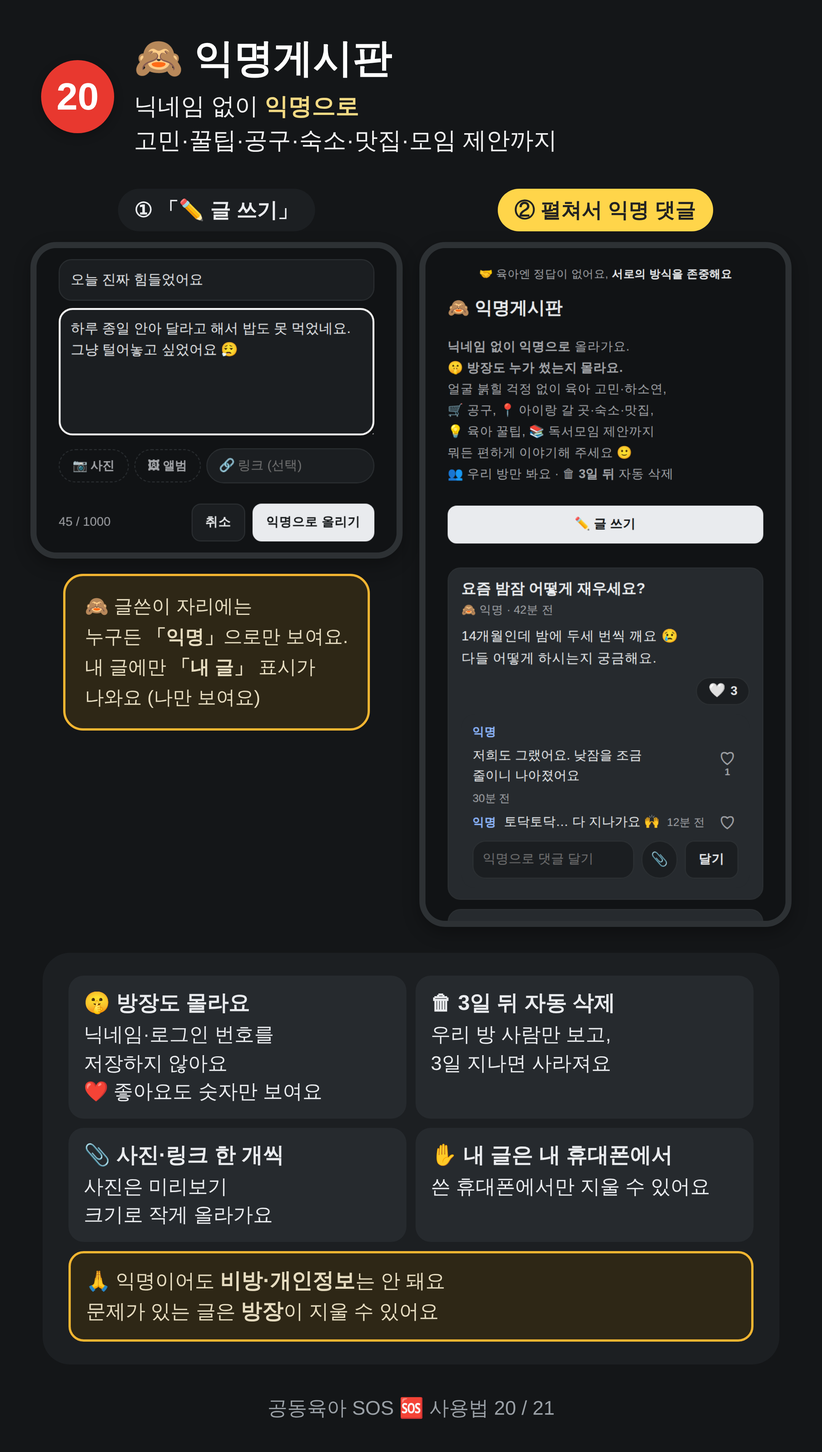
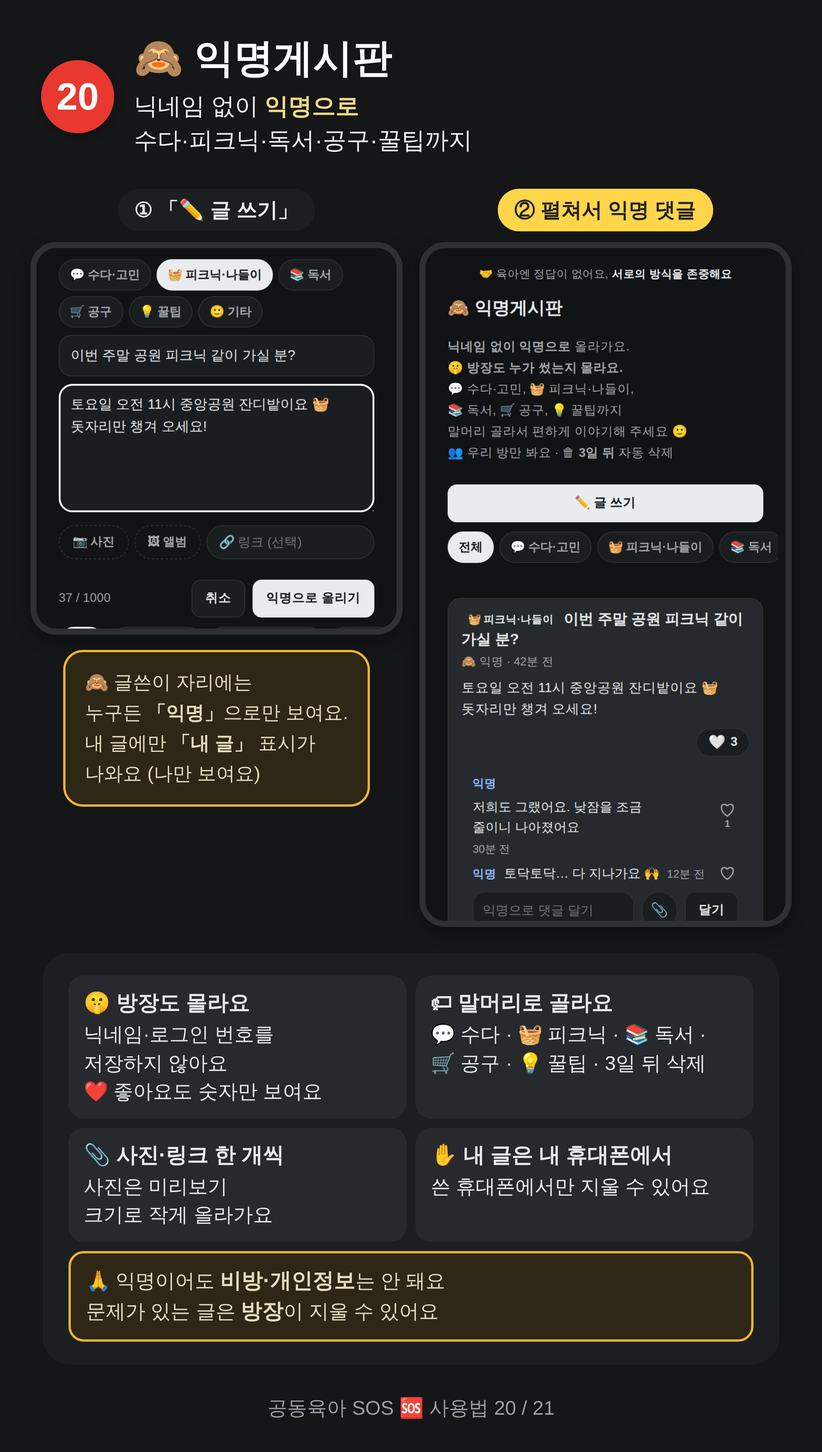
익명게시판 말머리를 '하고 싶은 것' 위주로 다시 (수다·피크닉·독서·공구·꿀팁·기타, 규칙 변경 없음), 전광판 글귀 2개 교체, 사용법 20 갱신
Claude-Session: https://claude.ai/code/session_01EFizHcDdWswyQN5TmKwWHe

diff --git a/sos/safety.html b/sos/safety.html
@@ -8,14 +8,14 @@
 <link rel="preconnect" href="https://fonts.gstatic.com" crossorigin>
 <link rel="stylesheet" href="https://fonts.googleapis.com/css2?family=IBM+Plex+Sans+KR:wght@400;500;600;700&display=swap">
 <link rel="icon" href="assets/icon.svg" type="image/svg+xml">
-<link rel="manifest" href="manifest.webmanifest?v=202610150553">
+<link rel="manifest" href="manifest.webmanifest?v=202610150609">
 <meta name="theme-color" content="#2a9095">
 <link rel="apple-touch-icon" href="assets/icon-sos-180.png">
 <meta name="apple-mobile-web-app-capable" content="yes">
 <meta name="mobile-web-app-capable" content="yes">
 <meta name="apple-mobile-web-app-title" content="공동육아 SOS">
-<link rel="stylesheet" href="assets/common.css?v=202610150553">
-<script src="assets/gate.js?v=202610150553"></script>
+<link rel="stylesheet" href="assets/common.css?v=202610150609">
+<script src="assets/gate.js?v=202610150609"></script>
 </head>
 <body>
 <div class="wrap single">
@@ -100,7 +100,7 @@
         <tr><td>🙌 모임</td><td>날짜·시간, 장소/놀이 글, <b>주최자 닉네임</b>(연 사람은 처음부터 '참석'으로 표시돼요), 참석·불참한 사람의 닉네임, 댓글 글과 닉네임, 붙인 경우 미리보기 크기로 줄인 사진 한 장(약 20KB)과 링크 주소, ❤ 좋아요 누른 사람의 익명 로그인 번호(uid)와 닉네임(누가 눌렀는지 보여요, 댓글 좋아요도 같아요)</td></tr>
         <tr><td>🍚 식단 사진</td><td>작게 줄인 사진(한 장 약 20KB), <b>올린 사람의 닉네임</b>, 끼니·날짜, 적은 경우 메모·아이 개월수, 익명 로그인 번호(uid), ❤ 좋아요 누른 사람의 익명 로그인 번호와 닉네임(누가 눌렀는지 보여요). 올린 날부터 3일 뒤 지워져요.</td></tr>
         <tr><td>💬 사진·모임 댓글</td><td>댓글 글, <b>쓴 사람의 닉네임</b>, 시간, 답글이면 받는 사람의 로그인 번호(알림을 보내는 데만 써요). 사진·모임과 함께 지워져요.</td></tr>
-        <tr><td>🙈 익명게시판</td><td>제목·내용·댓글과 올린 시간, 붙인 경우 미리보기 크기로 줄인 사진 한 장(약 20KB)과 링크 주소, '내 글' 확인용 비밀값의 지문(kh), ❤ 좋아요(글·댓글)는 누가 눌렀는지 알 수 없게 글마다 다른 지문만. <b>닉네임·로그인 번호는 저장하지 않아서 방장도 누가 썼는지, 누가 좋아요를 눌렀는지 몰라요.</b> 3일 뒤 지워져요.</td></tr>
+        <tr><td>🙈 익명게시판</td><td>말머리(수다·피크닉·독서·공구·꿀팁·기타), 제목·내용·댓글과 올린 시간, 붙인 경우 미리보기 크기로 줄인 사진 한 장(약 20KB)과 링크 주소, '내 글' 확인용 비밀값의 지문(kh), ❤ 좋아요(글·댓글)는 누가 눌렀는지 알 수 없게 글마다 다른 지문만. <b>닉네임·로그인 번호는 저장하지 않아서 방장도 누가 썼는지, 누가 좋아요를 눌렀는지 몰라요.</b> 3일 뒤 지워져요.</td></tr>
         <tr><td>📈 운영 통계</td><td>방 사람들은 볼 수 없고 <b>운영자만</b> 봐요. ① 날짜별 방문자 수·조회수 숫자 두 개 (누가 왔는지는 없어요) ② 방마다 '들어온 시각' 기록 (닉네임 없이 시각만. 누적 가입자 수를 세는 데 써요)</td></tr>
       </table>
       <p class="hint">모임 방마다 따로 저장돼서, <b>방 비밀번호를 아는 사람만</b> 그 방의 SOS·모임·댓글·식단·익명게시판을 볼 수 있어요. 다른 방 사람은 볼 수 없어요.<br>통신은 모두 암호화(HTTPS)돼요. 서버는 Google Firebase를 써요.</p>
@@ -128,7 +128,7 @@
         <li><b>멤버</b>: 방장은 '👥 멤버'에서 내보낼 수 있어요. 내보내진 휴대폰은 그 방을 더 이상 볼 수 없어요.</li>
         <li><b>모임 댓글</b>: 쓴 휴대폰에서 댓글 옆 '수정'·'삭제'를 누르면 돼요.</li>
         <li><b>🍚 식단 사진</b>: 우리 방 사람만 볼 수 있어요. 휴대폰에서 작게 줄여(한 장 약 20KB) 올리고, 올린 날부터 3일 뒤 서버에서 자동으로 지워져요. 올린 사람과 방장만 '✕'로 지울 수 있어요. 아이 얼굴·집 안이 나오지 않게 음식만 찍어 주세요.</li>
-        <li><b>🙈 익명게시판</b>: 제목·내용·댓글, 올린 시간, 붙인 사진·링크만 저장하고, 닉네임·로그인 번호는 저장하지 않아요. 내 글인지는 이 휴대폰에만 있는 비밀값으로 확인해요. 우리 방 사람만 볼 수 있고 3일 뒤 자동으로 지워져요. '내 정보 모두 지우기'를 누르면 이 휴대폰에서 쓴 글·댓글도 지워져요. 모임·식단에 누른 ❤ 좋아요도 함께 빠지고, 익명게시판 좋아요는 누가 눌렀는지 알 수 없어서 글과 함께 3일 안에 사라져요.</li>
+        <li><b>🙈 익명게시판</b>: 말머리와 제목·내용·댓글, 올린 시간, 붙인 사진·링크만 저장하고, 닉네임·로그인 번호는 저장하지 않아요. 내 글인지는 이 휴대폰에만 있는 비밀값으로 확인해요. 우리 방 사람만 볼 수 있고 3일 뒤 자동으로 지워져요. '내 정보 모두 지우기'를 누르면 이 휴대폰에서 쓴 글·댓글도 지워져요. 모임·식단에 누른 ❤ 좋아요도 함께 빠지고, 익명게시판 좋아요는 누가 눌렀는지 알 수 없어서 글과 함께 3일 안에 사라져요.</li>
         <li><b>💬 사진 댓글·답글</b>: 닉네임·글·시간이 저장되고, 사진과 함께 지워져요. 쓴 사람·사진 올린 사람·방장이 지울 수 있어요. 댓글이나 답글이 달리면 받는 사람에게만 알림이 가요(알림 채널 이름은 방 열쇠와 로그인 번호로 만든 암호값이에요).</li>
         <li><b>알림</b>: 알림을 켜면 이 휴대폰의 알림 주소(토큰)가 Google 알림 서버(Firebase Cloud Messaging)에 우리 방 채널로 등록돼요. 잠금화면에 보일 수 있어서 새 모임·SOS 알림에는 방 이름과 날짜·시간만 넣어요. 댓글·답글 알림은 받는 사람 한 명에게만 가고 쓴 사람 닉네임과 글 앞부분(60자까지)이 보여요, 홈의 '알림 끄기'로 언제든 빠질 수 있어요.</li>
         <li class="ttl-only"><b>자동 삭제</b>: 모임·댓글·SOS 요청는 그 날짜가 지나고 3일 뒤 서버에서 자동으로 지워져요. (방 사람이 앱을 열 때 정리돼요. 아무도 열지 않으면 조금 늦어질 수 있어요)</li>
@@ -150,8 +150,8 @@
 <script src="https://www.gstatic.com/firebasejs/10.12.0/firebase-auth-compat.js"></script>
 <script src="https://www.gstatic.com/firebasejs/10.12.0/firebase-firestore-compat.js"></script>
 <script src="https://www.gstatic.com/firebasejs/10.12.0/firebase-messaging-compat.js"></script>
-<script src="assets/common.js?v=202610150553"></script>
-<script src="assets/push.js?v=202610150553"></script>
+<script src="assets/common.js?v=202610150609"></script>
+<script src="assets/push.js?v=202610150609"></script>
 <script>
 document.getElementById('deleteMe').addEventListener('click', async e => {
   const owning = sosRooms().filter(r => r.owner).map(r => r.name);   // 내가 방장인 방이 있으면 먼저 알려 줘요

diff --git a/sos/assets/idea.js b/sos/assets/idea.js
@@ -6,7 +6,7 @@ const $i = s => document.querySelector(s);
 const IDEA_DAYS = 3, IDEA_KEYS = 'sosIdeaKeys';   // v16: 3일 뒤 자동 삭제
 const idea = {lkey: {},  col: null, items: [], open: new Set(), cmts: {}, subs: {}, drafts: {}, cat: 'talk', filter: '' };
 // 말머리 (서버 규칙 v16의 목록과 같아야 해요)
-const IDEA_CATS = [['talk', '💬 고민·하소연'], ['idea', '💡 꿀팁·제안'], ['buy', '🛒 공구'], ['place', '📍 갈 곳·숙소·맛집'], ['club', '📚 모임 제안'], ['etc', '🙂 기타']];
+const IDEA_CATS = [['talk', '💬 수다·고민'], ['place', '🧺 피크닉·나들이'], ['club', '📚 독서'], ['buy', '🛒 공구'], ['idea', '💡 꿀팁'], ['etc', '🙂 기타']];   // 코드는 규칙 v16 그대로, 이름만 바꿨어요
 const catName = c => (IDEA_CATS.find(x => x[0] === c) || ['', ''])[1];
 
 const ideaKeys = () => { try{ return JSON.parse(localStorage.getItem(IDEA_KEYS) || '{}'); }catch(e){ return {}; } };
@@ -26,13 +26,15 @@ function renderIdeas(){
   const fo = document.activeElement && document.activeElement.closest && document.activeElement.closest('[data-idea]');   // 쓰는 중인 댓글은 지켜요
   const draft = fo ? {id: fo.dataset.idea, v: fo.querySelector('input').value} : null;
   ul.querySelectorAll('[data-idea] input').forEach(i => { if(i.value) idea.drafts[i.closest('[data-idea]').dataset.idea] = i.value; });
-  const list = idea.items.filter(x => !x.deleted);   // 말머리 구분 없이 전부 (v19: 말머리 칸은 숨겨요)
-  if(!list.length){ ul.innerHTML = `<li class="hint idea-empty">아직 글이 없어요. 첫 이야기를 편하게 남겨 보세요 🙂</li>`; return; }
+  const list = idea.items.filter(x => !x.deleted && (!idea.filter || (x.c || 'talk') === idea.filter));
+  const fr = $i('#ideaFilter'); if(fr && !fr.childElementCount) fr.innerHTML = [['', '전체'], ...IDEA_CATS].map(([k, n]) => `<button type="button" data-filter="${k}" aria-pressed="${k === idea.filter}">${n}</button>`).join('');
+  if(fr) fr.querySelectorAll('button').forEach(b => b.setAttribute('aria-pressed', String(b.dataset.filter === idea.filter)));
+  if(!list.length){ ul.innerHTML = `<li class="hint idea-empty">${idea.filter ? '이 말머리 글이 아직 없어요.' : '아직 글이 없어요. 첫 이야기를 편하게 남겨 보세요 🙂'}</li>`; return; }
   ul.innerHTML = '';
   list.forEach(x => {
     const li = document.createElement('li'); li.className = 'idea-card'; li.dataset.id = x.id;
     const mine = !!keys[ipath(x.id)], opened = idea.open.has(x.id);
-    li.innerHTML = `<button type="button" class="idea-head" data-toggle="${x.id}" aria-expanded="${opened}"><b class="idea-t"></b><span class="idea-m">🙈 익명 · ${ago(x.createdAt)}${mine ? ' · 내 글' : ''}</span></button>
+    li.innerHTML = `<button type="button" class="idea-head" data-toggle="${x.id}" aria-expanded="${opened}"><b class="idea-t"><span class="idea-cat">${catName(x.c || 'talk')}</span></b><span class="idea-m">🙈 익명 · ${ago(x.createdAt)}${mine ? ' · 내 글' : ''}</span></button>
       <p class="idea-b"></p>`;
     li.querySelector('.idea-t').appendChild(document.createTextNode(x.t));
     const b = li.querySelector('.idea-b'); b.textContent = x.b; if(!opened) b.classList.add('clip');
@@ -102,6 +104,11 @@ async function removeDoc(ref, path){
   $i('#ideaCancel').addEventListener('click', () => { form.hidden = true; $i('#ideaOpen').hidden = false; });
   body.addEventListener('input', () => { $i('#ideaCount').textContent = `${body.value.length} / 1000`; });
   if(typeof attachUI === 'function') idea.attach = attachUI(form, {before: $i('#ideaAttach')});
+  // 🏷 말머리 고르기 (글쓰기) · 말머리로 보기 (목록)
+  const cats = $i('#ideaCats'); cats.innerHTML = IDEA_CATS.map(([k, n]) => `<button type="button" data-cat="${k}" aria-pressed="${k === idea.cat}">${n}</button>`).join('');
+  cats.addEventListener('click', e => { const b = e.target.closest('[data-cat]'); if(!b) return; idea.cat = b.dataset.cat; cats.querySelectorAll('button').forEach(x => x.setAttribute('aria-pressed', String(x === b)));
+    title.placeholder = {talk: '제목 (예: 요즘 밤잠 어떻게 재우세요?)', place: '제목 (예: 이번 주말 공원 피크닉 같이 가실 분?)', club: '제목 (예: 그림책 같이 읽을 분 모여요)', buy: '제목 (예: 기저귀 공구 같이 하실 분?)', idea: '제목 (예: 밤잠 꿀팁 하나 공유해요)', etc: '제목'}[idea.cat] || '제목'; });
+  $i('#ideaFilter').addEventListener('click', e => { const b = e.target.closest('[data-filter]'); if(!b) return; idea.filter = b.dataset.filter; renderIdeas(); });
   sosReady().then(ok => {
     if(!ok){ $i('#ideaList').innerHTML = '<li class="hint">익명게시판을 불러오지 못했어요. 잠시 뒤 다시 열어 주세요.</li>'; return; }
     idea.col = roomRef().collection('ideas');
@@ -121,7 +128,7 @@ async function removeDoc(ref, path){
     try{
       const ref = idea.col.doc(), k = secret();
       setIdeaKey(ipath(ref.id), k);
-      await ref.set({t, b, ...at, kh: await sha(k), createdAt: firebase.firestore.FieldValue.serverTimestamp(),
+      await ref.set({t, b, c: idea.cat, ...at, kh: await sha(k), createdAt: firebase.firestore.FieldValue.serverTimestamp(),
         expireAt: firebase.firestore.Timestamp.fromMillis(Date.now() + IDEA_DAYS * 864e5)});
       title.value = ''; body.value = ''; $i('#ideaCount').textContent = '0 / 1000'; if(idea.attach) idea.attach.clear();
       form.hidden = true; $i('#ideaOpen').hidden = false;

diff --git a/sos/idea.html b/sos/idea.html
@@ -8,14 +8,14 @@
 <link rel="preconnect" href="https://fonts.gstatic.com" crossorigin>
 <link rel="stylesheet" href="https://fonts.googleapis.com/css2?family=IBM+Plex+Sans+KR:wght@400;500;600;700&display=swap">
 <link rel="icon" href="assets/icon.svg" type="image/svg+xml">
-<link rel="manifest" href="manifest.webmanifest?v=202610150553">
+<link rel="manifest" href="manifest.webmanifest?v=202610150609">
 <meta name="theme-color" content="#2a9095">
 <link rel="apple-touch-icon" href="assets/icon-sos-180.png">
 <meta name="apple-mobile-web-app-capable" content="yes">
 <meta name="mobile-web-app-capable" content="yes">
 <meta name="apple-mobile-web-app-title" content="공동육아 SOS">
-<link rel="stylesheet" href="assets/common.css?v=202610150553">
-<script src="assets/gate.js?v=202610150553"></script>
+<link rel="stylesheet" href="assets/common.css?v=202610150609">
+<script src="assets/gate.js?v=202610150609"></script>
 </head>
 <body>
 <div class="wrap single">
@@ -23,14 +23,16 @@
   <main>
     <section class="sec idea-sec">
       <h2>🙈 익명게시판</h2>
-      <p class="hint idea-note"><b>닉네임 없이 익명으로</b> 올라가요. <span class="nw">🤫 <b>방장도 누가 썼는지 몰라요.</b></span><br><span class="nw">얼굴 붉힐 걱정 없이</span> <span class="nw">육아 고민·하소연,</span> <span class="nw">🛒 공구, 📍 아이랑 갈 곳·숙소·맛집,</span> <span class="nw">💡 육아 꿀팁, 📚 독서모임 제안까지</span> <span class="nw">뭐든 편하게 이야기해 주세요 🙂</span><br><span class="nw">👥 우리 방만 봐요</span> · <span class="nw">🗑 <b>3일 뒤</b> 자동 삭제</span></p>
+      <p class="hint idea-note"><b>닉네임 없이 익명으로</b> 올라가요. <span class="nw">🤫 <b>방장도 누가 썼는지 몰라요.</b></span><br><span class="nw">💬 수다·고민, 🧺 피크닉·나들이,</span> <span class="nw">📚 독서, 🛒 공구, 💡 꿀팁까지</span><br><span class="nw">말머리 골라서 편하게 이야기해 주세요 🙂</span><br><span class="nw">👥 우리 방만 봐요 · 🗑 <b>3일 뒤</b> 자동 삭제</span></p>
       <button type="button" class="btn primary block" id="ideaOpen">✏ 글 쓰기</button>
       <form class="idea-form" id="ideaForm" hidden>
+        <div class="idea-cats" id="ideaCats" role="group" aria-label="말머리"></div>
         <input type="text" id="ideaTitle" maxlength="40" placeholder="제목 (예: 요즘 밤잠 어떻게 재우세요?)" aria-label="제목">
         <textarea id="ideaBody" maxlength="1000" rows="5" placeholder="고민·하소연·제안, 뭐든 자유롭게 적어 주세요. 이름·연락처 같은 개인정보는 빼 주세요." aria-label="내용"></textarea>
         <div id="ideaAttach"></div>
         <div class="idea-row"><span class="hint" id="ideaCount">0 / 1000</span><button type="button" class="btn" id="ideaCancel">취소</button><button type="submit" class="btn primary" id="ideaSend">익명으로 올리기</button></div>
       </form>
+      <div class="idea-cats idea-filter" id="ideaFilter" role="group" aria-label="말머리로 보기"></div>
       <ul class="idea-list" id="ideaList"><li class="hint">불러오는 중…</li></ul>
     </section>
     <p class="tiny-note">🙈 쓴 사람이 누구인지 서버에도 남지 않아요.<br><span class="nw">(닉네임·로그인 번호 저장 안 함)</span><br>내 글은 <b>쓴 휴대폰</b>에서만 지울 수 있어요.<br>비방·개인정보가 담긴 글은 <b>방장</b>이 지울 수 있어요.</p>
@@ -41,8 +43,8 @@
 <script src="https://www.gstatic.com/firebasejs/10.12.0/firebase-auth-compat.js"></script>
 <script src="https://www.gstatic.com/firebasejs/10.12.0/firebase-firestore-compat.js"></script>
 <script src="https://www.gstatic.com/firebasejs/10.12.0/firebase-messaging-compat.js"></script>
-<script src="assets/common.js?v=202610150553"></script>
-<script src="assets/push.js?v=202610150553"></script>
-<script src="assets/idea.js?v=202610150553"></script>
+<script src="assets/common.js?v=202610150609"></script>
+<script src="assets/push.js?v=202610150609"></script>
+<script src="assets/idea.js?v=202610150609"></script>
 </body>
 </html>

diff --git a/sos/terms.html b/sos/terms.html
@@ -8,14 +8,14 @@
 <link rel="preconnect" href="https://fonts.gstatic.com" crossorigin>
 <link rel="stylesheet" href="https://fonts.googleapis.com/css2?family=IBM+Plex+Sans+KR:wght@400;500;600;700&display=swap">
 <link rel="icon" href="assets/icon.svg" type="image/svg+xml">
-<link rel="manifest" href="manifest.webmanifest?v=202610150553">
+<link rel="manifest" href="manifest.webmanifest?v=202610150609">
 <meta name="theme-color" content="#2a9095">
 <link rel="apple-touch-icon" href="assets/icon-sos-180.png">
 <meta name="apple-mobile-web-app-capable" content="yes">
 <meta name="mobile-web-app-capable" content="yes">
 <meta name="apple-mobile-web-app-title" content="공동육아 SOS">
-<link rel="stylesheet" href="assets/common.css?v=202610150553">
-<script src="assets/gate.js?v=202610150553"></script>
+<link rel="stylesheet" href="assets/common.css?v=202610150609">
+<script src="assets/gate.js?v=202610150609"></script>
 </head>
 <body>
 <div class="wrap single">
@@ -90,7 +90,7 @@
         <li>비밀번호는 저장하지 않아요.<br><b>우리 방 사람만</b> 기록을 볼 수 있어요.</li>
         <li>SOS·모임·댓글은 날짜가 지나고 <b>3일 뒤 자동으로 지워져요.</b></li>
         <li>🍚 식단 사진은 <b>우리 방 사람만</b> 보고, 올린 날부터 <b>3일 뒤 자동으로 지워져요.</b><br>지우기는 올린 사람과 방장만 할 수 있어요.<br>사진에 단 댓글·답글도 사진과 함께 지워져요.</li>
-        <li>🙈 익명게시판에는 고민·하소연뿐 아니라 <b>육아 꿀팁, 공구, 아이랑 가기 좋은 곳·숙소·맛집 추천, 독서모임 같은 모임 제안</b>도 올릴 수 있어요. 말머리를 골라 올리면 돼요. 다만 돈이 오가는 공구는 <b>방 사람들끼리 자율로</b> 하는 것이고, 운영자는 거래에 책임지지 않아요. 외부 판매·홍보 글은 안 돼요.</li>
+        <li>🙈 익명게시판에는 말머리(💬 수다·고민, 🧺 피크닉·나들이, 📚 독서, 🛒 공구, 💡 꿀팁, 🙂 기타)를 골라 올려요. 고민·하소연뿐 아니라 <b>육아 꿀팁, 공구, 아이랑 가기 좋은 곳·숙소·맛집 추천, 독서모임 같은 모임 제안</b>도 올릴 수 있어요. 말머리를 골라 올리면 돼요. 다만 돈이 오가는 공구는 <b>방 사람들끼리 자율로</b> 하는 것이고, 운영자는 거래에 책임지지 않아요. 외부 판매·홍보 글은 안 돼요.</li>
         <li>📎 모임 글과 익명게시판 글, 그리고 모든 댓글에는 <b>사진 한 장(미리보기 크기로 아주 작게 줄인 것, 약 20KB)과 링크 하나</b>를 붙일 수 있어요. 댓글은 글 없이 사진만 올려도 돼요. 링크는 https:// 주소만 되고 새 창으로 열려요. 광고·낚시 링크가 담긴 글은 방장이 지울 수 있어요.</li>
         <li>🙈 익명게시판: 제목·내용·댓글에 <b>닉네임과 로그인 번호를 저장하지 않아요.</b> 우리 방 사람만 보고, <b>3일 뒤 자동으로 지워져요.</b> 내 글은 쓴 휴대폰에서만, 문제 글은 방장이 지울 수 있어요. 휴대폰을 바꾸면 예전 글은 직접 지울 수 없어요.</li>
         <li>💬 댓글·답글 알림: 내 식단 사진에 댓글이 달리거나 내 댓글에 답글이 달리면 <b>나에게만</b>, 모임 댓글은 그 모임 알림을 받는 사람에게 가요. (알림을 켠 휴대폰만, 알림에는 방 이름·닉네임·글 앞부분이 보여요)</li>
@@ -119,6 +119,6 @@
 <script src="https://www.gstatic.com/firebasejs/10.12.0/firebase-app-compat.js"></script>
 <script src="https://www.gstatic.com/firebasejs/10.12.0/firebase-auth-compat.js"></script>
 <script src="https://www.gstatic.com/firebasejs/10.12.0/firebase-firestore-compat.js"></script>
-<script src="assets/common.js?v=202610150553"></script>
+<script src="assets/common.js?v=202610150609"></script>
 </body>
 </html>

diff --git a/sos/index.html b/sos/index.html
@@ -9,14 +9,14 @@
 <link rel="preconnect" href="https://fonts.gstatic.com" crossorigin>
 <link rel="stylesheet" href="https://fonts.googleapis.com/css2?family=IBM+Plex+Sans+KR:wght@400;500;600;700&display=swap">
 <link rel="icon" href="assets/icon.svg" type="image/svg+xml">
-<link rel="manifest" href="manifest.webmanifest?v=202610150553">
+<link rel="manifest" href="manifest.webmanifest?v=202610150609">
 <meta name="theme-color" content="#2a9095">
 <link rel="apple-touch-icon" href="assets/icon-sos-180.png">
 <meta name="apple-mobile-web-app-capable" content="yes">
 <meta name="mobile-web-app-capable" content="yes">
 <meta name="apple-mobile-web-app-title" content="공동육아 SOS">
-<link rel="stylesheet" href="assets/common.css?v=202610150553">
-<script src="assets/gate.js?v=202610150553"></script>
+<link rel="stylesheet" href="assets/common.css?v=202610150609">
+<script src="assets/gate.js?v=202610150609"></script>
 </head>
 <body>
 <div class="wrap single">
@@ -85,8 +85,8 @@
 <script src="https://www.gstatic.com/firebasejs/10.12.0/firebase-auth-compat.js"></script>
 <script src="https://www.gstatic.com/firebasejs/10.12.0/firebase-firestore-compat.js"></script>
 <script src="https://www.gstatic.com/firebasejs/10.12.0/firebase-messaging-compat.js"></script>
-<script src="assets/common.js?v=202610150553"></script>
-<script src="assets/push.js?v=202610150553"></script>
+<script src="assets/common.js?v=202610150609"></script>
+<script src="assets/push.js?v=202610150609"></script>
 <script>
 sosSummary();
 // 🦸 구원자: 처음엔 오른쪽 위에서 흔들흔들 → 조금 뒤 테두리를 한 바퀴 날고 다시 제자리 (그 뒤로도 가끔)

diff --git a/sos/meal.html b/sos/meal.html
@@ -8,14 +8,14 @@
 <link rel="preconnect" href="https://fonts.gstatic.com" crossorigin>
 <link rel="stylesheet" href="https://fonts.googleapis.com/css2?family=IBM+Plex+Sans+KR:wght@400;500;600;700&display=swap">
 <link rel="icon" href="assets/icon.svg" type="image/svg+xml">
-<link rel="manifest" href="manifest.webmanifest?v=202610150553">
+<link rel="manifest" href="manifest.webmanifest?v=202610150609">
 <meta name="theme-color" content="#2a9095">
 <link rel="apple-touch-icon" href="assets/icon-sos-180.png">
 <meta name="apple-mobile-web-app-capable" content="yes">
 <meta name="mobile-web-app-capable" content="yes">
 <meta name="apple-mobile-web-app-title" content="공동육아 SOS">
-<link rel="stylesheet" href="assets/common.css?v=202610150553">
-<script src="assets/gate.js?v=202610150553"></script>
+<link rel="stylesheet" href="assets/common.css?v=202610150609">
+<script src="assets/gate.js?v=202610150609"></script>
 </head>
 <body>
 <div class="wrap single">
@@ -44,8 +44,8 @@
 <script src="https://www.gstatic.com/firebasejs/10.12.0/firebase-auth-compat.js"></script>
 <script src="https://www.gstatic.com/firebasejs/10.12.0/firebase-firestore-compat.js"></script>
 <script src="https://www.gstatic.com/firebasejs/10.12.0/firebase-messaging-compat.js"></script>
-<script src="assets/common.js?v=202610150553"></script>
-<script src="assets/push.js?v=202610150553"></script>
-<script src="assets/meal.js?v=202610150553"></script>
+<script src="assets/common.js?v=202610150609"></script>
+<script src="assets/push.js?v=202610150609"></script>
+<script src="assets/meal.js?v=202610150609"></script>
 </body>
 </html>

diff --git a/sos/meet.html b/sos/meet.html
@@ -8,14 +8,14 @@
 <link rel="preconnect" href="https://fonts.gstatic.com" crossorigin>
 <link rel="stylesheet" href="https://fonts.googleapis.com/css2?family=IBM+Plex+Sans+KR:wght@400;500;600;700&display=swap">
 <link rel="icon" href="assets/icon.svg" type="image/svg+xml">
-<link rel="manifest" href="manifest.webmanifest?v=202610150553">
+<link rel="manifest" href="manifest.webmanifest?v=202610150609">
 <meta name="theme-color" content="#2a9095">
 <link rel="apple-touch-icon" href="assets/icon-sos-180.png">
 <meta name="apple-mobile-web-app-capable" content="yes">
 <meta name="mobile-web-app-capable" content="yes">
 <meta name="apple-mobile-web-app-title" content="공동육아 SOS">
-<link rel="stylesheet" href="assets/common.css?v=202610150553">
-<script src="assets/gate.js?v=202610150553"></script>
+<link rel="stylesheet" href="assets/common.css?v=202610150609">
+<script src="assets/gate.js?v=202610150609"></script>
 </head>
 <body>
 <div class="wrap single">
@@ -60,8 +60,8 @@
 <script src="https://www.gstatic.com/firebasejs/10.12.0/firebase-auth-compat.js"></script>
 <script src="https://www.gstatic.com/firebasejs/10.12.0/firebase-firestore-compat.js"></script>
 <script src="https://www.gstatic.com/firebasejs/10.12.0/firebase-messaging-compat.js"></script>
-<script src="assets/common.js?v=202610150553"></script>
-<script src="assets/push.js?v=202610150553"></script>
-<script src="assets/meet.js?v=202610150553"></script>
+<script src="assets/common.js?v=202610150609"></script>
+<script src="assets/push.js?v=202610150609"></script>
+<script src="assets/meet.js?v=202610150609"></script>
 </body>
 </html>

diff --git a/sos/play.html b/sos/play.html
@@ -8,14 +8,14 @@
 <link rel="preconnect" href="https://fonts.gstatic.com" crossorigin>
 <link rel="stylesheet" href="https://fonts.googleapis.com/css2?family=IBM+Plex+Sans+KR:wght@400;500;600;700&display=swap">
 <link rel="icon" href="assets/icon.svg" type="image/svg+xml">
-<link rel="manifest" href="manifest.webmanifest?v=202610150553">
+<link rel="manifest" href="manifest.webmanifest?v=202610150609">
 <meta name="theme-color" content="#2a9095">
 <link rel="apple-touch-icon" href="assets/icon-sos-180.png">
 <meta name="apple-mobile-web-app-capable" content="yes">
 <meta name="mobile-web-app-capable" content="yes">
 <meta name="apple-mobile-web-app-title" content="공동육아 SOS">
-<link rel="stylesheet" href="assets/common.css?v=202610150553">
-<script src="assets/gate.js?v=202610150553"></script>
+<link rel="stylesheet" href="assets/common.css?v=202610150609">
+<script src="assets/gate.js?v=202610150609"></script>
 </head>
 <body>
 <div class="wrap">
@@ -135,8 +135,8 @@
 <script src="https://www.gstatic.com/firebasejs/10.12.0/firebase-app-compat.js"></script>
 <script src="https://www.gstatic.com/firebasejs/10.12.0/firebase-auth-compat.js"></script>
 <script src="https://www.gstatic.com/firebasejs/10.12.0/firebase-firestore-compat.js"></script>
-<script src="plays.js?v=202610150553"></script>
-<script src="assets/common.js?v=202610150553"></script>
-<script src="assets/play.js?v=202610150553"></script>
+<script src="plays.js?v=202610150609"></script>
+<script src="assets/common.js?v=202610150609"></script>
+<script src="assets/play.js?v=202610150609"></script>
 </body>
 </html>

diff --git a/sos/assets/common.js b/sos/assets/common.js
@@ -109,10 +109,10 @@ const SLOGANS = [
   ['🤔', '아이가 더 잘하게 하려면 먼저 기분을', '나쁘게 해야 한다는 생각, 어디서 왔을까요', '제인 넬슨'],
   ['🕯', '아이를 강하게 키우는 게 아니라, 세상을', '덜 모질게 만들 아이로 키우는 거예요', 'L. R. 노스트'],
   ['🐘', '사람은 사람이에요,', '아무리 작아도요', '닥터 수스'],
-  ['🪞', '아이는 어른의 말이 아니라', '어른의 모습을 보고 배워요', '카를 융'],
+  ['🪞', '아이는', '부모의 거울이에요', ''],
   ['📆', '하루는 길지만,', '몇 년은 금방이에요', '그레첸 루빈'],
   ['🧱', '아이는 젖은 시멘트 같아요,', '떨어지는 것마다 자국이 남아요', '하임 기너트'],
-  ['🌸', '아이는 빚는 게 아니라,', '펼쳐지도록 돕는 거예요', '제스 레어'],
+  ['🌿', '아이는 목수처럼 짓는 게 아니라,', '정원사처럼 가꾸는 거예요', '앨리슨 고프닉 『정원사와 목수』에서'],
   ['🍡', '미운 아이', '떡 하나 더 줘요', '우리 속담'],
   ['🧒', '세 살 버릇', '여든까지 가요', '우리 속담']];
 function startSlogan(){

diff --git a/sos/admin.html b/sos/admin.html
@@ -12,8 +12,8 @@
 <meta name="apple-mobile-web-app-capable" content="yes">
 <meta name="mobile-web-app-capable" content="yes">
 <meta name="apple-mobile-web-app-title" content="SOS 운영">
-<link rel="stylesheet" href="assets/common.css?v=202610150553">
-<script src="assets/gate.js?v=202610150553"></script>
+<link rel="stylesheet" href="assets/common.css?v=202610150609">
+<script src="assets/gate.js?v=202610150609"></script>
 <style>
 /* 운영자 화면: 숫자 타일 → 주간 막대 → 방 표. 단일 색(teal) 막대, 상태색은 경고에만 */
 body{padding-block:20px 60px}

diff --git a/sos/guide.html b/sos/guide.html
@@ -5,7 +5,7 @@
 <meta name="viewport" content="width=device-width,initial-scale=1,viewport-fit=cover">
 <title>사용법 · 공동육아 SOS</title>
 <link rel="icon" href="assets/icon.svg" type="image/svg+xml">
-<link rel="manifest" href="manifest.webmanifest?v=202610150553">
+<link rel="manifest" href="manifest.webmanifest?v=202610150609">
 <meta name="theme-color" content="#2a9095">
 <link rel="apple-touch-icon" href="assets/icon-sos-180.png">
 <style>
